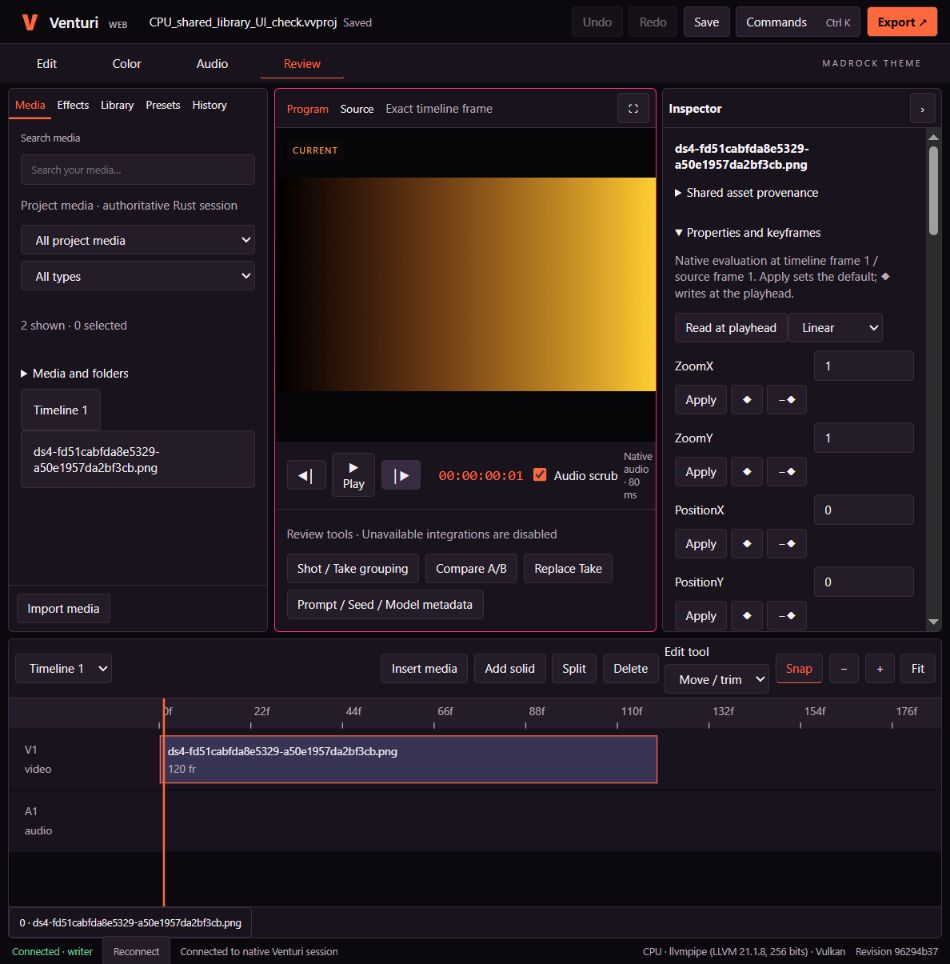
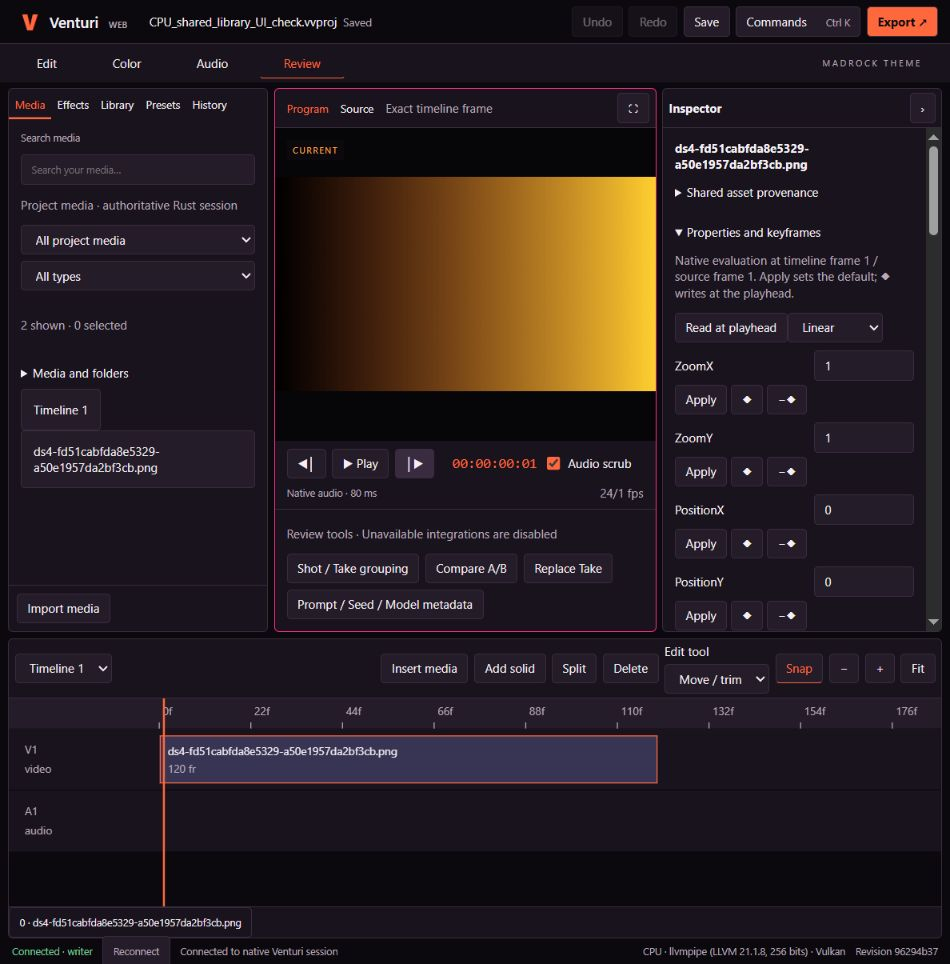
Record verified halo2 audio audition deployment

Changed region(s): [[0.3053, 0.4668, 0.7021, 0.529]]

diff --git a/docs/venturi-web/IMPLEMENTATION_STATUS.md b/docs/venturi-web/IMPLEMENTATION_STATUS.md
@@ -1577,3 +1577,14 @@ This keeps the Source video visible at the normal narrow layout.
 Evidence: m5-audio-scrub.json, m5-audio-scrub-program.png and
 m5-audio-scrub-source.png. halo2 deployment follows after this local acceptance;
 no GPU slot or inference process has been used.
+
+The accepted audio build plus narrow-transport wrapping is deployed on halo2
+from 4fc96b6, SHA-256
+3f3c1d925f2480cb7264cc42c4c34d439be7d5774b122f4adf13131f316d442e.
+Embedded audition/Source/CSS hashes match local sources. The saved shared-library
+fixture reopened with its exact seed and Favorite annotation, native silent
+Program audio returned 15,404 bytes and the still source correctly refused audio.
+The browser reached the audio output path while the project stayed Saved.
+CPU/lavapipe, two workers, no DRI/KFD handles and no lock probe/acquisition are
+verified in m5-halo2-audio-scrub.json/browser.png. Transport wrapping was visually
+checked in the narrower main editor panel as well as the local editing layout.
